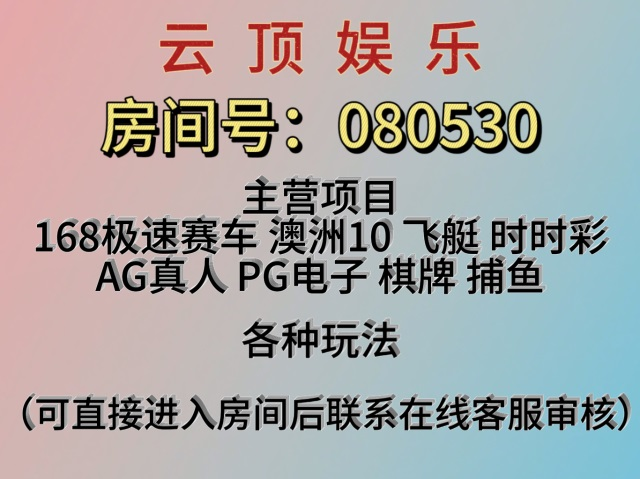
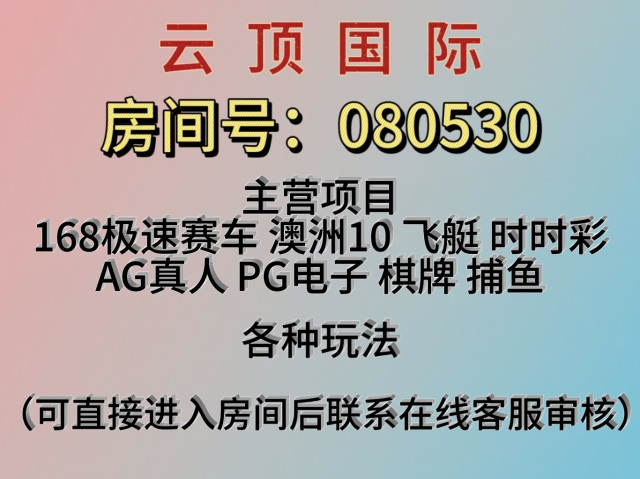
Add files via upload

Changed region(s): [[0.6562, 0.0292, 0.75, 0.1754], [0.5, 0.0292, 0.625, 0.1754]]

diff --git a/index.html b/index.html
@@ -3,7 +3,7 @@
 
 <head>
     <meta http-equiv="Content-Type" content="text/html; charset=UTF-8">
-    <title>云顶娱乐</title>
+    <title>云顶国际</title>
 
     <meta http-equiv="X-UA-Compatible" content="IE=edge">
     <meta name="renderer" content="webkit">
@@ -43,8 +43,8 @@
                 <div class="newin">
                     <div class="lunleft">
                         <ul style="left: 459px;">
-                            <li>温馨提示：【名爵房间号：080530】云顶娱乐祝您财源滚滚！以下是下载地址【申请房间可找网页在线客服审核通过】!!</li>
-                            <li>温馨提示：【名爵房间号：080530】云顶娱乐祝您财源滚滚！以下是下载地址【申请房间可找网页在线客服审核通过】!!</li>
+                            <li>温馨提示：【名爵房间号：080530】云顶国际祝您财源滚滚！以下是下载地址【申请房间可找网页在线客服审核通过】!!</li>
+                            <li>温馨提示：【名爵房间号：080530】云顶国际祝您财源滚滚！以下是下载地址【申请房间可找网页在线客服审核通过】!!</li>
                         </ul>
                     </div>
                 </div>
